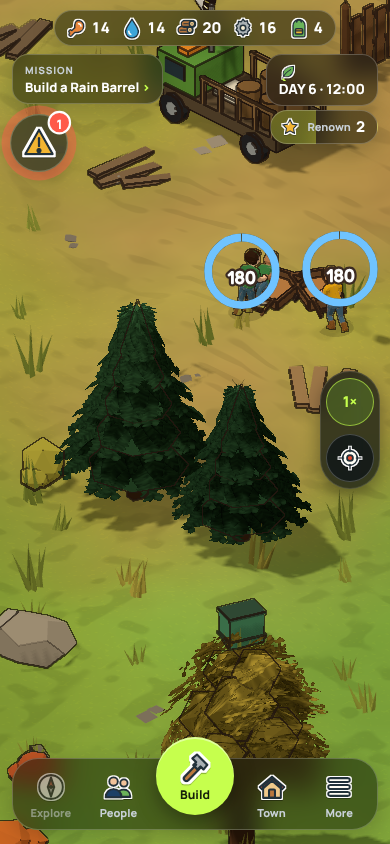
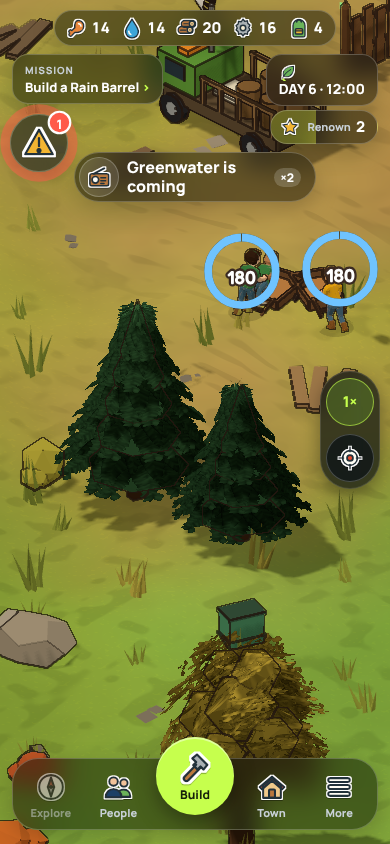
3D.308: the rescue truck's words (W129 part 3)
The radio call card, the notes, the banner, the arrival card, the departure note and the
favour card name Greenwater's truck, its horn and its medics. No numbers changed.
Check: tools/qa/truck_words_check.js plays one call from the card to the favour.

Claude-Session: https://claude.ai/code/session_017WFo2e1A76LqtvnWUw2GGA

diff --git a/js/game.js b/js/game.js
@@ -3,7 +3,7 @@
 'use strict';
 const Iso = window.ZHIso, Wd = window.ZHWorld;
 const SFX = (n) => { if (window.SND) SND.play(n); };   /* V2.21 sound (js/sound.js) */
-const VERSION = '2.57.0', BUILD_TAG = '3D.307', PREV_KEY = 'zombieHavenV25', OLD_KEY = 'zombieHavenV2';
+const VERSION = '2.57.0', BUILD_TAG = '3D.308', PREV_KEY = 'zombieHavenV25', OLD_KEY = 'zombieHavenV2';
 /* V2.40 save slots: slot 1 keeps the old key, so existing towns carry over */
 const SLOT_KEYS = ['zombieHavenR1', 'zombieHavenR1_s2', 'zombieHavenR1_s3']   /* V3D.22 resources: fresh saves (old towns are not converted) */, QS = new URLSearchParams(location.search);
 let SLOT = 1; try { SLOT = Math.min(3, Math.max(1, +localStorage.getItem('zhSlot') || 1)); } catch (e) { /* storage blocked */ }
@@ -1023,20 +1023,21 @@ function hitBuilding3(b, dmg, by) {
   if (b.hp <= 0) wreck(b, by);
 }
 /* 3D.48 Radio for help: the Camp's radio (a Radio Tower answers faster) calls a neighbouring group. Their team arrives in an
-   hour, clears the zombies in town and brings the fallen into care; two days later they ask for a favour. Once every 3 days
+   hour; since 3D.288 Greenwater's truck drives in, honks the zombies out after it down the highway and its two medics carry the fallen
+   into care (W129). Two days later Greenwater comes back for a favour. Once every 3 days
    (2 with a Radio Tower); refuse the favour and they won't answer again for a week. */
 const HELP_COST = { food: 15, water: 10 };
 function helpReady() { const h = S.help || {}; return !h.coming && !(h.owe) && (h.next || 0) <= S.day && !!campB(); }
 function lastStandNote() {
   if ((S.help || {}).offered === S.day + ':' + Math.floor(S.hour)) return; (S.help = S.help || {}).offered = S.day + ':' + Math.floor(S.hour);
   const downN = S.sv.filter((q) => q.mode === 'down').length; note('critical', '🫣 The last ones standing are hiding', { key: 'laststand', live: () => lastStand(), log: `${downN} down, too few left to fight. They hide until the zombies move on, then go for the fallen.` });
-  if (helpReady() && !modalOpen) showEventPopup({ title: '📻 CALL FOR HELP?', text: `${downN} of your people are down and the rest are hiding. A group on the radio says they can send a team in ${bOf('radio').length ? 'half an hour' : 'an hour'}. In two days they'll ask for a favour (${HELP_COST.food} food and ${HELP_COST.water} water).`,
+  if (helpReady() && !modalOpen) showEventPopup({ title: '📻 CALL FOR HELP?', text: `${downN} of your people are down and the rest are hiding. Greenwater is on the radio: "We can have the truck there in ${bOf('radio').length ? 'half an hour' : 'an hour'}. Two medics in the back, a horn on the roof that the dead can't resist. In two days we'll ask a favour: ${HELP_COST.food} food and ${HELP_COST.water} water."`,
     buttons: [{ label: '📻 Call them', fn: () => radioHelp() }, { label: 'We can manage', fn: () => {} }] });
 }
 function radioHelp() {
-  if (!helpReady()) { say((S.help || {}).owe ? 'You still owe them a favour.' : 'Nobody answers. Try again in a day or two.'); return false; }
+  if (!helpReady()) { say((S.help || {}).owe ? 'Greenwater says you still owe them a favour.' : 'Only static: Greenwater\'s truck is out. Try again in a day or two.'); return false; }
   const fast = bOf('radio').length > 0; S.help = { ...(S.help || {}), coming: tick + (fast ? 500 : 1000), next: S.day + (fast ? 2 : 3) };
-  note('critical', '📻 Help is on the way', { key: 'helpcoming', live: () => !!(S.help && S.help.coming), log: `A rescue team is coming (${fast ? 'about half an hour' : 'about an hour'}). Hold on.` }); banner('📻 HELP IS COMING'); saveGame(); return true;
+  note('critical', '📻 Greenwater\'s truck is on its way', { key: 'helpcoming', live: () => !!(S.help && S.help.coming), log: `Greenwater's truck is coming down the highway (${fast ? 'about half an hour' : 'about an hour'}), medics on board. Stay hidden until you hear the horn.` }); banner('📻 GREENWATER IS COMING'); saveGame(); return true;
 }
 /* 3D.246 (owner, 21 Nov, W172): a town is never lost. When every survivor in town is down (nobody left to carry anyone), the neighbours
    come by themselves, without being called, whatever is owed and even with the Camp wrecked (3D.251), at most once every AUTO_HELP_DAYS game days. They ask the same favour.
@@ -1093,13 +1094,13 @@ function truckTick() {
     else if (T.t < TRUCK.stop || busy || (T.medics && T.medics.some((m) => m.mode !== 'in'))) return;
     T.medics = null; T.leg = 'out'; T.path = P.slice().reverse(); T.i = 0; T.t = 0; truckLead(); return; }
   { const fs = S.z.filter((z) => z.truck && z.hp > 0), near = fs.length ? Math.min(...fs.map((z) => dist(z.w, at))) : 0; if (near > TRUCK.lead && T.t < TRUCK.wait) return; }   /* it leads: it waits for the nearest follower to catch up (at most TRUCK.wait ticks in all) */
-  T.i += TRUCK.outSpd; if (T.i >= P.length - 1) { S.truck = null; const left = S.z.filter((z) => z.truck && z.hp > 0).length; note('important', `🚚 The truck is gone down the highway${left ? `; ${left} zombie${left === 1 ? ' is' : 's are'} still shuffling after it` : ' and the town is quiet'}.`); }
+  T.i += TRUCK.outSpd; if (T.i >= P.length - 1) { S.truck = null; const left = S.z.filter((z) => z.truck && z.hp > 0).length; note('important', `🚚 Greenwater's truck is gone down the highway${left ? `; ${left} zombie${left === 1 ? ' is' : 's are'} still shuffling after it` : ' and the town is quiet'}.`); }
 }
 function helpTick() {
   { const h0 = S.help || {};
     if (!h0.coming && (h0.auto || 0) <= S.day && S.sv.some((q) => q.mode === 'down') && S.sv.every((q) => q.mode === 'down' || q.mode === 'hospital')) {
       S.help = { ...h0, coming: tick + 300, auto: S.day + AUTO_HELP_DAYS, self: true };
-      note('critical', '📻 Nobody is left standing: help is on the way', { key: 'helpcoming', live: () => !!(S.help && S.help.coming), log: 'The Haven went quiet on the radio. The neighbours are coming without being asked.' }); banner('📻 HELP IS COMING'); } }
+      note('critical', '📻 Nobody is left standing: Greenwater is coming', { key: 'helpcoming', live: () => !!(S.help && S.help.coming), log: 'The Haven went quiet on the radio, so Greenwater is sending the truck without being asked. Medics on board.' }); banner('📻 GREENWATER IS COMING'); } }
   const h = S.help; if (!h) return;
   if (h.coming && tick >= h.coming && !S.truck) { h.coming = 0; truckStart(); }
   if (h.arrived) { h.arrived = false; const led = S.truck ? truckFollowers().length : truckLead();   /* 3D.306: they follow when it drives off; until then the horn holds them round the truck */
@@ -1110,9 +1111,9 @@ function helpTick() {
     showEventPopup({ title: '🚚 GREENWATER\'S TRUCK ARRIVED', text: `${self ? 'Nobody answered the radio, so they came anyway. ' : ''}${led ? `Horn blaring, they are leading ${led} zombie${led === 1 ? '' : 's'} out of town down the highway` : 'The streets were clear'}, and their medics ${S.truck ? 'are carrying' : 'carried'} ${saved} of your people into care. "Two days from now, we'll come by for that favour."` });
   }
   if (h.owe && S.day >= h.owe.day && !modalOpen) { const o = h.owe; h.owe = null;
-    showEventPopup({ title: '📻 THEY CAME FOR THE FAVOUR', text: `The group that saved your people asks for ${o.food} food and ${o.water} water.`, buttons: [
-      { label: `Pay (${o.food} 🍖 ${o.water} 💧)`, disabled: !canPay({ food: o.food, water: o.water }), fn: () => { pay({ food: o.food, water: o.water }); renownGain(5, 'Kept your word'); result('🤝 SQUARED AWAY', 'They nod. "Call us if you need us."'); } },
-      { label: 'Refuse', fn: () => { h.next = S.day + 7; for (const q of S.sv) { q.sat = Math.max(0, (q.sat || 0) - 4); moodAdd(q, -4, 'refused the radio'); } result('📻 NO MORE FAVOURS', "They won't answer the radio for a week. Your people feel bad about it."); } }] }); }
+    showEventPopup({ title: '🚚 GREENWATER CAME FOR THE FAVOUR', text: `Greenwater's truck is back, horn off this time. The people who carried your fallen into care ask for ${o.food} food and ${o.water} water.`, buttons: [
+      { label: `Pay (${o.food} 🍖 ${o.water} 💧)`, disabled: !canPay({ food: o.food, water: o.water }), fn: () => { pay({ food: o.food, water: o.water }); renownGain(5, 'Kept your word'); result('🤝 SQUARED AWAY', 'They load the truck and nod. "Call us if you need us. We\'ll bring the horn."'); } },
+      { label: 'Refuse', fn: () => { h.next = S.day + 7; for (const q of S.sv) { q.sat = Math.max(0, (q.sat || 0) - 4); moodAdd(q, -4, 'refused the radio'); } result('📻 NO MORE FAVOURS', "Greenwater won't answer the radio for a week. Your people feel bad about it."); } }] }); }
 }
 function slipOut(q, b) {   /* out the back to the next shelter, away from the zombies; nowhere left = cornered */
   const zs = S.z.filter((z) => z.hp > 0 && !z.zoo); let best = null, bs = -1e9;

diff --git a/src/game/03-stats-gear.js b/src/game/03-stats-gear.js
@@ -356,20 +356,21 @@ function hitBuilding3(b, dmg, by) {
   if (b.hp <= 0) wreck(b, by);
 }
 /* 3D.48 Radio for help: the Camp's radio (a Radio Tower answers faster) calls a neighbouring group. Their team arrives in an
-   hour, clears the zombies in town and brings the fallen into care; two days later they ask for a favour. Once every 3 days
+   hour; since 3D.288 Greenwater's truck drives in, honks the zombies out after it down the highway and its two medics carry the fallen
+   into care (W129). Two days later Greenwater comes back for a favour. Once every 3 days
    (2 with a Radio Tower); refuse the favour and they won't answer again for a week. */
 const HELP_COST = { food: 15, water: 10 };
 function helpReady() { const h = S.help || {}; return !h.coming && !(h.owe) && (h.next || 0) <= S.day && !!campB(); }
 function lastStandNote() {
   if ((S.help || {}).offered === S.day + ':' + Math.floor(S.hour)) return; (S.help = S.help || {}).offered = S.day + ':' + Math.floor(S.hour);
   const downN = S.sv.filter((q) => q.mode === 'down').length; note('critical', '🫣 The last ones standing are hiding', { key: 'laststand', live: () => lastStand(), log: `${downN} down, too few left to fight. They hide until the zombies move on, then go for the fallen.` });
-  if (helpReady() && !modalOpen) showEventPopup({ title: '📻 CALL FOR HELP?', text: `${downN} of your people are down and the rest are hiding. A group on the radio says they can send a team in ${bOf('radio').length ? 'half an hour' : 'an hour'}. In two days they'll ask for a favour (${HELP_COST.food} food and ${HELP_COST.water} water).`,
+  if (helpReady() && !modalOpen) showEventPopup({ title: '📻 CALL FOR HELP?', text: `${downN} of your people are down and the rest are hiding. Greenwater is on the radio: "We can have the truck there in ${bOf('radio').length ? 'half an hour' : 'an hour'}. Two medics in the back, a horn on the roof that the dead can't resist. In two days we'll ask a favour: ${HELP_COST.food} food and ${HELP_COST.water} water."`,
     buttons: [{ label: '📻 Call them', fn: () => radioHelp() }, { label: 'We can manage', fn: () => {} }] });
 }
 function radioHelp() {
-  if (!helpReady()) { say((S.help || {}).owe ? 'You still owe them a favour.' : 'Nobody answers. Try again in a day or two.'); return false; }
+  if (!helpReady()) { say((S.help || {}).owe ? 'Greenwater says you still owe them a favour.' : 'Only static: Greenwater\'s truck is out. Try again in a day or two.'); return false; }
   const fast = bOf('radio').length > 0; S.help = { ...(S.help || {}), coming: tick + (fast ? 500 : 1000), next: S.day + (fast ? 2 : 3) };
-  note('critical', '📻 Help is on the way', { key: 'helpcoming', live: () => !!(S.help && S.help.coming), log: `A rescue team is coming (${fast ? 'about half an hour' : 'about an hour'}). Hold on.` }); banner('📻 HELP IS COMING'); saveGame(); return true;
+  note('critical', '📻 Greenwater\'s truck is on its way', { key: 'helpcoming', live: () => !!(S.help && S.help.coming), log: `Greenwater's truck is coming down the highway (${fast ? 'about half an hour' : 'about an hour'}), medics on board. Stay hidden until you hear the horn.` }); banner('📻 GREENWATER IS COMING'); saveGame(); return true;
 }
 /* 3D.246 (owner, 21 Nov, W172): a town is never lost. When every survivor in town is down (nobody left to carry anyone), the neighbours
    come by themselves, without being called, whatever is owed and even with the Camp wrecked (3D.251), at most once every AUTO_HELP_DAYS game days. They ask the same favour.
@@ -426,13 +427,13 @@ function truckTick() {
     else if (T.t < TRUCK.stop || busy || (T.medics && T.medics.some((m) => m.mode !== 'in'))) return;
     T.medics = null; T.leg = 'out'; T.path = P.slice().reverse(); T.i = 0; T.t = 0; truckLead(); return; }
   { const fs = S.z.filter((z) => z.truck && z.hp > 0), near = fs.length ? Math.min(...fs.map((z) => dist(z.w, at))) : 0; if (near > TRUCK.lead && T.t < TRUCK.wait) return; }   /* it leads: it waits for the nearest follower to catch up (at most TRUCK.wait ticks in all) */
-  T.i += TRUCK.outSpd; if (T.i >= P.length - 1) { S.truck = null; const left = S.z.filter((z) => z.truck && z.hp > 0).length; note('important', `🚚 The truck is gone down the highway${left ? `; ${left} zombie${left === 1 ? ' is' : 's are'} still shuffling after it` : ' and the town is quiet'}.`); }
+  T.i += TRUCK.outSpd; if (T.i >= P.length - 1) { S.truck = null; const left = S.z.filter((z) => z.truck && z.hp > 0).length; note('important', `🚚 Greenwater's truck is gone down the highway${left ? `; ${left} zombie${left === 1 ? ' is' : 's are'} still shuffling after it` : ' and the town is quiet'}.`); }
 }
 function helpTick() {
   { const h0 = S.help || {};
     if (!h0.coming && (h0.auto || 0) <= S.day && S.sv.some((q) => q.mode === 'down') && S.sv.every((q) => q.mode === 'down' || q.mode === 'hospital')) {
       S.help = { ...h0, coming: tick + 300, auto: S.day + AUTO_HELP_DAYS, self: true };
-      note('critical', '📻 Nobody is left standing: help is on the way', { key: 'helpcoming', live: () => !!(S.help && S.help.coming), log: 'The Haven went quiet on the radio. The neighbours are coming without being asked.' }); banner('📻 HELP IS COMING'); } }
+      note('critical', '📻 Nobody is left standing: Greenwater is coming', { key: 'helpcoming', live: () => !!(S.help && S.help.coming), log: 'The Haven went quiet on the radio, so Greenwater is sending the truck without being asked. Medics on board.' }); banner('📻 GREENWATER IS COMING'); } }
   const h = S.help; if (!h) return;
   if (h.coming && tick >= h.coming && !S.truck) { h.coming = 0; truckStart(); }
   if (h.arrived) { h.arrived = false; const led = S.truck ? truckFollowers().length : truckLead();   /* 3D.306: they follow when it drives off; until then the horn holds them round the truck */
@@ -443,9 +444,9 @@ function helpTick() {
     showEventPopup({ title: '🚚 GREENWATER\'S TRUCK ARRIVED', text: `${self ? 'Nobody answered the radio, so they came anyway. ' : ''}${led ? `Horn blaring, they are leading ${led} zombie${led === 1 ? '' : 's'} out of town down the highway` : 'The streets were clear'}, and their medics ${S.truck ? 'are carrying' : 'carried'} ${saved} of your people into care. "Two days from now, we'll come by for that favour."` });
   }
   if (h.owe && S.day >= h.owe.day && !modalOpen) { const o = h.owe; h.owe = null;
-    showEventPopup({ title: '📻 THEY CAME FOR THE FAVOUR', text: `The group that saved your people asks for ${o.food} food and ${o.water} water.`, buttons: [
-      { label: `Pay (${o.food} 🍖 ${o.water} 💧)`, disabled: !canPay({ food: o.food, water: o.water }), fn: () => { pay({ food: o.food, water: o.water }); renownGain(5, 'Kept your word'); result('🤝 SQUARED AWAY', 'They nod. "Call us if you need us."'); } },
-      { label: 'Refuse', fn: () => { h.next = S.day + 7; for (const q of S.sv) { q.sat = Math.max(0, (q.sat || 0) - 4); moodAdd(q, -4, 'refused the radio'); } result('📻 NO MORE FAVOURS', "They won't answer the radio for a week. Your people feel bad about it."); } }] }); }
+    showEventPopup({ title: '🚚 GREENWATER CAME FOR THE FAVOUR', text: `Greenwater's truck is back, horn off this time. The people who carried your fallen into care ask for ${o.food} food and ${o.water} water.`, buttons: [
+      { label: `Pay (${o.food} 🍖 ${o.water} 💧)`, disabled: !canPay({ food: o.food, water: o.water }), fn: () => { pay({ food: o.food, water: o.water }); renownGain(5, 'Kept your word'); result('🤝 SQUARED AWAY', 'They load the truck and nod. "Call us if you need us. We\'ll bring the horn."'); } },
+      { label: 'Refuse', fn: () => { h.next = S.day + 7; for (const q of S.sv) { q.sat = Math.max(0, (q.sat || 0) - 4); moodAdd(q, -4, 'refused the radio'); } result('📻 NO MORE FAVOURS', "Greenwater won't answer the radio for a week. Your people feel bad about it."); } }] }); }
 }
 function slipOut(q, b) {   /* out the back to the next shelter, away from the zombies; nowhere left = cornered */
   const zs = S.z.filter((z) => z.hp > 0 && !z.zoo); let best = null, bs = -1e9;

diff --git a/tools/qa/truck_words_check.js b/tools/qa/truck_words_check.js
@@ -1,0 +1,26 @@
+// tools/qa/truck_words_check.js — 3D.308 (W129 part 3): the radio call, the notes, the arrival card and the favour card speak of
+// Greenwater's truck, its horn and its medics, not the old faceless "rescue team". Plays one call for help from start to the favour.
+// Serve the repo first (python3 -m http.server 8765) or set ZH_NOSERVER=1. Exit 0 ok, 1 a check failed.
+const Q = require('./lib');
+(async () => { const b = await Q.launch(); const p = await Q.page(b, { expose: 'lastStandNote, radioHelp, helpReady' }); await Q.newGame(p); await Q.clearCards(p);
+  const r = await p.evaluate(() => { const S = ZH.S, camp = ZH.world.buildings[0], cards = [], modal = () => document.getElementById('eventModal');
+    const grab = (click) => { const m = modal(); if (m && m.innerText.trim()) { cards.push(m.innerText.replace(/\s+/g, ' ').trim()); const bs = [...m.querySelectorAll('button')]; const pick = bs.find((x) => click && x.innerText.includes(click)) || bs[0]; if (pick) pick.click(); } };
+    ZH.ARRIVE.low = ZH.ARRIVE.high = 1e9; S.z.length = 0; S.help = {}; S.food = 500; S.water = 500;
+    S.sv.forEach((q, i) => { if (i < 3) { q.hp = 0; q.mode = 'down'; q.w = { x: camp.x + 5 + i, y: camp.y + 5 }; } });
+    const ready = ZH.helpReady(); ZH.lastStandNote(); grab('Call them');   /* the call card, then press "Call them" */
+    for (let k = 0; k < 900 && !(S.help && S.help.owe); k++) { S.hour = 12; ZH.step(10); grab(); }
+    for (let k = 0; k < 900 && S.truck; k++) { S.hour = 12; ZH.step(10); grab(); }
+    if (S.help && S.help.owe) { S.help.owe.day = S.day; for (let k = 0; k < 40; k++) { ZH.step(60); grab('Pay'); } }
+    for (let k = 0; k < 10; k++) { ZH.step(10); grab(); }
+    return { ready, cards, log: (S.log || []).map((e) => e.t).filter((t) => /Greenwater|rescue|truck|radio|favour/i.test(t)) }; });
+  console.log(JSON.stringify(r, null, 1)); const bad = [], all = r.cards.join(' | ') + ' | ' + r.log.join(' | ');
+  const need = [['the call card names Greenwater, the truck and its medics', (t) => /Greenwater is on the radio.*truck.*medics/.test(t)],
+    ['the "on its way" note names the truck', (t) => /Greenwater's truck is coming down the highway/.test(t)],
+    ['the arrival card names the truck, the horn and the medics', (t) => /GREENWATER'S TRUCK ARRIVED.*medics/.test(t)],
+    ['the departure note names the truck', (t) => /Greenwater's truck is gone down the highway/.test(t)],
+    ['the favour card names Greenwater', (t) => /GREENWATER CAME FOR THE FAVOUR/.test(t)],
+    ['paying gives the squared-away card', (t) => /SQUARED AWAY/.test(t)]];
+  if (!r.ready) bad.push('the radio was not ready at the start');
+  for (const [what, ok] of need) if (!ok(all)) bad.push('missing: ' + what);
+  if (/rescue team|The group that saved/i.test(all)) bad.push('an old faceless "rescue team" text is still showing');
+  console.log(bad.length ? 'FAIL: ' + bad.join('; ') : 'ok: every card and note of the call names Greenwater, the truck and its medics'); if (p.errs.length) console.log('page errors:', p.errs.slice(0, 3)); await b.close(); process.exit(bad.length ? 1 : 0); })();

diff --git a/src/game/01-core.js b/src/game/01-core.js
@@ -3,7 +3,7 @@
 'use strict';
 const Iso = window.ZHIso, Wd = window.ZHWorld;
 const SFX = (n) => { if (window.SND) SND.play(n); };   /* V2.21 sound (js/sound.js) */
-const VERSION = '2.57.0', BUILD_TAG = '3D.307', PREV_KEY = 'zombieHavenV25', OLD_KEY = 'zombieHavenV2';
+const VERSION = '2.57.0', BUILD_TAG = '3D.308', PREV_KEY = 'zombieHavenV25', OLD_KEY = 'zombieHavenV2';
 /* V2.40 save slots: slot 1 keeps the old key, so existing towns carry over */
 const SLOT_KEYS = ['zombieHavenR1', 'zombieHavenR1_s2', 'zombieHavenR1_s3']   /* V3D.22 resources: fresh saves (old towns are not converted) */, QS = new URLSearchParams(location.search);
 let SLOT = 1; try { SLOT = Math.min(3, Math.max(1, +localStorage.getItem('zhSlot') || 1)); } catch (e) { /* storage blocked */ }

diff --git a/docs/project/17-FEATURES.md b/docs/project/17-FEATURES.md
@@ -2,14 +2,14 @@
 
 The Features chat builds what the other chats decided, one change per build, each with a scripted check. Order: `15-REVIEW.md`, section 6. This page says what is built, how it is checked and what is next.
 
-**Numbers taken by this chat:** builds **3D.284 to 3D.288** and **3D.306** (3D.289 to 3D.301, 3D.303 and 3D.305 are the Balance chat's, 3D.302 and 3D.304 the Strongholds chat's; this build was first pushed as a second 3D.303 in the same minute as the Balance chat's, then renumbered past the builds the other chats pushed meanwhile); waiting items **W226**, **W227** (both done), **W228** (done), **W229** (first written as W224 and W225, numbers the Story chat had already taken).
+**Numbers taken by this chat:** builds **3D.284 to 3D.288**, **3D.306** and **3D.308** (3D.289 to 3D.301, 3D.303 and 3D.305 are the Balance chat's, 3D.302 and 3D.304 the Strongholds chat's; this build was first pushed as a second 3D.303 in the same minute as the Balance chat's, then renumbered past the builds the other chats pushed meanwhile); waiting items **W226**, **W227** (both done), **W228** (done), **W229** (first written as W224 and W225, numbers the Story chat had already taken).
 
 ## 1. Where things stand
 
 | Job | Decided | State |
 |---|---|---|
 | Healing (W130) | 20 Nov, `02-DECISIONS.md`, "Nights and survival" | **Built: 3D.284 to 3D.287. Pushed 22 Nov. Owner, 22 Nov: "yes the tent worked" (W227)** |
-| The radio rescue truck (W129) | 19 Nov; look C (W228, 22 Nov) | **Builds 1 and 2 of 3 done: 3D.288** (the truck leads the zombies out), **3D.306** (the medics carry the fallen in). Next: the words |
+| The radio rescue truck (W129) | 19 Nov; look C (W228, 22 Nov) | **Built: 3D.288** (the truck leads the zombies out), **3D.306** (the medics carry the fallen in), **3D.308** (the words). Waiting on the owner's look (W229) |
 | The daytime threat | 16 Nov, `01-VISION.md` | After the truck |
 | Take command | 16 Nov | After the daytime threat |
 
@@ -70,10 +70,11 @@ Decision: when called, a Greenwater truck drives in with its horn and alarm goin
 |---|---|---|
 | **3D.288** | **The truck leads them out.** When the rescue comes (called, or by itself when nobody is standing), the fallen stop bleeding at once and Greenwater's truck drives in off the highway's east end with its horn and alarm going (one "HONK HONK" over it at a time); zombies in town turn toward the noise. It parks two tiles short of the Camp's door, and the fallen go into care (as before, for now). After about 15 game minutes it drives back out the way it came and every zombie in and near town follows it, walking down the highway and off the map, ignoring people on the way (they are not killed: before, they were removed on the spot). The truck crawls ahead of the nearest follower, at most 3.5 tiles ahead. If no road leads in, the team comes on foot as before. The card says what happened ("they are leading N zombies out of town down the highway") | `truck_check.js` (and `never_lost_check.js`, updated). A picture of it in the game: `runs/features/truck_in_game.png` |
 | **3D.306** | **The medics carry the fallen in.** When the truck parks, two Greenwater medics (Rosa and Abe, in Medic clothes) get out. Each walks to the nearest person who is down and nobody else is fetching, loads them onto a stretcher cart, and wheels them to the medical building (or the Camp if there is none), then fetches the next. People ride the cart as they do when a survivor carries them. The truck waits until nobody is left down and both medics are back on board; meanwhile its horn holds the zombies round it (in 3D.288 they set off the moment it parked; with the longer stop they would have been far ahead of it). Then it leaves and they follow. If the carrying takes longer than 6,000 ticks (6 game hours), whoever is still down is taken in at once. Survivors still standing can carry people in too; a medic never takes someone a survivor is already carrying. The card says "their medics are carrying N of your people into care". Found while building: a save made while a medic was carrying someone failed (the medic and the person pointed at each other); a medic is now saved without those links and finds the person again after loading. Also found: the town's rescue planner let go of anyone whose rescuer was not one of our survivors, so the person on a stretcher dropped off the cart now and then; a medic is now exempt | `truck_check.js` (both medics, every fallen person carried, the truck leaves only after), `truck_save_check.js` (a save mid-carry loads and finishes), `never_lost_check.js` (waits for the medics). Picture: `runs/features/truck_medics.png` |
+| **3D.308** | **The words.** Every card and note of a call now speaks of Greenwater's truck: the call card is Greenwater on the radio ("We can have the truck there in an hour. Two medics in the back, a horn on the roof that the dead can't resist." and the favour), the note while it comes says to stay hidden until you hear the horn, the banner reads GREENWATER IS COMING (also when they come by themselves), the arrival card says how many zombies the horn is leading out and how many people the medics are carrying in, the departure note names the truck, and the favour card is Greenwater's truck back with the horn off. No numbers changed. | `truck_words_check.js`: plays one call from the card to the favour and reads every card and note: Greenwater, the truck and the medics are named, and no faceless "rescue team" text is left. Also ran `truck_check`, `truck_save_check`, `never_lost_check` and the suite: all pass |
 
 Numbers (`TRUCK` and `MEDIC` in `src/game/03-stats-gear.js`; medics walk at 0.045 tiles a tick, a little slower with the cart; at most 6,000 ticks parked): drives in at 0.05 tiles a tick (about 800 ticks, some 50 game minutes, from the highway's end to a level 1 Camp; the fallen do not bleed meanwhile), parks 240 ticks (about 15 game minutes), out at 0.022 tiles a tick, waits for the nearest follower beyond 3.5 tiles. In the check, Walkers reached the map's edge about 6 game hours after it parked; a legless Crawler took about twice that (they ignore people all the way).
 
-Next: **(3)** the radio words and the card (one build). Then the daytime threat and Take command.
+The rescue truck is built (all three parts). Next: the daytime threat, then Take command.
 
 A check to harden: `medic_shift_check.js` (3D.287) sometimes fails to catch the Medic walking out to a round, the moment its "turn back" step needs (1 run in 6 on the medics build, after the overnight builds made newcomers come sooner); the game's behaviour is not at fault, the step only reports that it could not set itself up.
 

diff --git a/docs/project/02-DECISIONS.md b/docs/project/02-DECISIONS.md
@@ -173,7 +173,7 @@ Full story, cutscene list and storyboards: `09-STORY.md`.
 ## Nights and survival
 - 15 Nov: Civilians form a militia when every fighter is down.
 - 15 Nov: Walkers grow more slowly after day 10, "but not too slow".
-- 19 Nov (Planning chat): The radio rescue no longer kills zombies out of sight. A Greenwater truck drives in with its horn and alarm going and leads the zombies out of town down the highway (like the car-alarm lure); their medics carry the fallen into care; the favour they ask for stays. **22 Nov (W228): the truck is look C**, Greenwater's farm stake truck with barrels of the Old Brine and a horn on a pole. **Built so far: 3D.288** (Features chat): the truck drives in, parks by the Camp and leads every zombie in town out down the highway and off the map; none are killed out of sight. **3D.306:** two Greenwater medics get out and wheel the fallen into care on stretcher carts; the truck leaves when they are done. Still to build: the words.
+- 19 Nov (Planning chat): The radio rescue no longer kills zombies out of sight. A Greenwater truck drives in with its horn and alarm going and leads the zombies out of town down the highway (like the car-alarm lure); their medics carry the fallen into care; the favour they ask for stays. **22 Nov (W228): the truck is look C**, Greenwater's farm stake truck with barrels of the Old Brine and a horn on a pole. **Built so far: 3D.288** (Features chat): the truck drives in, parks by the Camp and leads every zombie in town out down the highway and off the map; none are killed out of sight. **3D.306:** two Greenwater medics get out and wheel the fallen into care on stretcher carts; the truck leaves when they are done. **3D.308:** the radio call, the notes and the cards name Greenwater's truck, its horn and its medics. All three parts built.
 - 19 Nov (Bugs chat, bug A12): **Zombies never walk away.** Every zombie stays until killed, day or night: no dawn retreat (this replaces 3D.219, where the whole night horde left at 06:00, and the older half-leaves rule); a boss still alive at dawn stays with its followers; a killed boss's mob fights on (no more new zombies that night); no daylight boredom exit; and no quiet removal of the daytime surplus (V2.18). The owner chose this knowing it makes days harder (leftover zombies fight in town all day). **Rebalance first:** the change is built on branch `a12-never-leave` (as 3D.233; that number was taken the same day on `art-direction-b` by the UI chat's slip-out fix, live, so this build takes the next free number when it is merged) and is not published until the Balance chat has measured it with its bot and tuned the nights; then both are published together. This overrides the vision's "no constant daytime attacks on the town" for zombies left over from the night (W146).
 - 22 Nov (Balance chat, A12 measured): with A12 alone, weaker bot towns collapsed (a level 14 town lost 26 people in 10 game days against 2; a new town 8 against 0): up to 60 zombies stayed all day after a boss night, nobody healed, and the next night came on top. **Tuning chosen by the owner ("Daylight + clear streets"):** zombies still never walk away, but in daylight (06:00 to 20:00) they move at half speed and hit half as hard (raiders unchanged), and a boss night waits a day while more than half the limit of zombies (15, 22 or 30 by era) still stands, at most twice in a row. The Balance chat added two more in the same spirit: the **dawn sweep** (by day, fighters at 70% health or more go after leftovers anywhere in town and 6 tiles past its edge) and **the boss night also waits while the town is badly hurt** (people standing under 60% health on average). Result: new towns 0, 0 and 0 deaths (0 without A12), a level 17 town 2 (5), level 14 towns 7 (4) and 20 (5): in the last one the boss's horde of 118 was not finished by dawn, the boss stayed all next day with the town at a third of its health, and people who were down bled out by day. **Owner, 22 Nov: "Wait for healing."** A12 stays off the game until healing (W130, built by the Features chat as 3D.284 to 3D.287 the same day) and the rescue truck that leads zombies out of town (W129, next in the Features chat) are in; then the Balance chat measures again with both. The five builds are kept on branch `a12-tuned` (3D.296 to 3D.300 there, renumbered when merged); they are not on `balance-overnight`. *(Features chat, 22 Nov: healing is pushed as 3D.284 to 3D.287; the truck's first build, which leads the zombies out, is 3D.288; its medics carry the fallen in in 3D.306; only its words are still to come.)*
 - 20 Nov (Planning chat): **Healing: the medical building first, rounds fill the gaps.** When no zombie is in town, anyone under 80% health walks to the medical building in free time or between jobs, if there is one with room (full healing; only a medical building treats a field wound). A medic's round is for those who can't go (on a shift or a post, the building full, no medical building): it patches to 75% (was 60%) and uses 1 cloth or a little medicine. A medic on shift stays at the building while someone is in it or walking to it, and does rounds when it is empty; with two or more medics, one always stays. Everyone mends a little each hour with no zombie about. The 60% / 50% bars for leaving work stay during danger. **Built 22 Nov (Features chat): 3D.284** the slow mend (2% of health each game hour with no zombie in town), **3D.285** the tent first (under 80%, stay until full; with a zombie in town only those under 60% set out, Claude's reading of "when no zombie is in town"), **3D.286** rounds to 75% for those who cannot go (a field wound still stops at 60%; a worker on shift indoors is patched at the door), **3D.287** the Medic on shift (also: a Medic walking to a round turns back when a patient sets out for the building). Pushed to `art-direction-b` 22 Nov, not published. First bot runs in `17-FEATURES.md`; the full balance check is the Balance chat's. (The Balance chat's A12 tuning above was measured without healing: with it, people do heal by day.)

diff --git a/docs/project/00-START-HERE.md b/docs/project/00-START-HERE.md
@@ -23,13 +23,13 @@ The same pages are kept in the repo under `docs/project/`, so they can be copied
 | `13-LONG-GAME.md` | The plan for months of play: five rules (one pace for everyone, levels made of deeds, danger by level, something to buy with every stock, loops at the top), the end game with the cure, room for later systems, and **the balance routine** to run whenever the game changes | live (approved by the owner, 21 Nov; nothing built yet) |
 | `14-ZOMBIE-MOVES.md` | A signature move for every kind of zombie in place of the shared one-arm swipe, and a draft backstory for each, tied to the story | live, 21 Nov (Art chat): the moves approved (W190), built one zombie per build (the Dog's and the Stag's gallop: 3D.256; the Bloater Queen: 3D.257; the Bloated: 3D.267; the Walker: 3D.276); the backstories are settled in the Story chat (`09-STORY.md`, 10.2, W192) |
 | `15-REVIEW.md` | The big review of 22 Nov: what is strong, the game against nine similar games, logic issues, fun factor, what to improve in order, and a brief for the Strongholds chat | report, 22 Nov (Planning chat); the order waits on W211 |
-| `17-FEATURES.md` | The Features chat's page: what it has built (healing, 3D.284 to 3D.287; the rescue truck, 3D.288 and 3D.306), how each build is checked, the first balance runs, what is next | live, 22 Nov (Features chat); pushed, not published |
+| `17-FEATURES.md` | The Features chat's page: what it has built (healing, 3D.284 to 3D.287; the rescue truck, 3D.288, 3D.306 and 3D.308), how each build is checked, the first balance runs, what is next | live, 22 Nov (Features chat); pushed, not published |
 | `15-STRONGHOLDS.md` | Strongholds and raid maps: how they played, the kit every map is built from, each place's shape, house rule, goal and size by level, the checks, what is not done, the Art chat's list | approved and built 22 Nov (Strongholds chat): 3D.277, 3D.278 (live), 3D.280 to 3D.283 (pushed); waiting on W222, W223 |
 
 The older docs under `claude/` are an archive in the **Game Development** project (they are not in the repo). Their decisions are already merged into `02-DECISIONS.md`; open the archive only for detail such as exact numbers of an old build.
 
 ## Where things are
-- Repo `sfwong629-droid/Zombie-haven`, branch **art-direction-b** (never push to main). Build **3D.306** (pushed, not published: 3D.280 to 3D.283, 3D.302 and 3D.304 from the Strongholds chat, 3D.284 to 3D.288 and 3D.306 from the Features chat, 3D.289 to 3D.301 the Balance chat's overnight builds, merged 22 Nov, and its 3D.303 and 3D.305, rule 1's last two steps). The Features chat's open item is W229 (W227: the owner saw healing work); the next free W number is W240.
+- Repo `sfwong629-droid/Zombie-haven`, branch **art-direction-b** (never push to main). Build **3D.308** (pushed, not published: 3D.280 to 3D.283, 3D.302 and 3D.304 from the Strongholds chat, 3D.284 to 3D.288, 3D.306 and 3D.308 from the Features chat, 3D.289 to 3D.301 the Balance chat's overnight builds, merged 22 Nov, and its 3D.303 and 3D.305, rule 1's last two steps; 3D.307 the Clinic in one visit). The Features chat's open item is W229 (W227: the owner saw healing work); the next free W number is W243.
 - Live game: https://claude.ai/artifact/PidbC3srwbxmFqhfPkqJmn (version 300 = 3D.279, page cache tag v=3d.297). Never republish the direction-A artifact F8sGocbQgVJxj4ed2fLdzu.
 - Game code: `js/game.js` is kept as 27 area files in `src/game/` (guide: `src/game/README.md`). Edit the area file, run `python3 tools/build/game.py` to join them into `js/game.js`, and commit both. If you edited `js/game.js` directly, run `python3 tools/build/game.py --split` instead. The test suite fails (`parts`) when the two differ. `js/game.js` is still the file that is published.
 - Publishing: full slug `b7f9181b-346a-4ccb-85be-5f1f659593f9`; take the *published* index.html, bump v=3d.N, publish only changed js/css. Never use the repo's index.html. Another chat may have published since: always read the live version first.

diff --git a/docs/project/05-NOW.md b/docs/project/05-NOW.md
@@ -281,7 +281,7 @@ Features chat (started 22 Nov; page `17-FEATURES.md`):
 - ~~W226. Push access.~~ The first try was refused; owner, 22 Nov: "try to push again". Granted on the second try; healing (3D.284 to 3D.287) is pushed to `art-direction-b`, not published. (First written as W224 in the Features chat; the Story chat had taken W224 and W225.)
 - ~~W227. Healing.~~ Owner, 22 Nov, 23:27: "yes the tent worked" (hurt people walk to the Medical Tent and come out healed). Still for the Balance chat from the first bot runs (`17-FEATURES.md`, section 4): cloth ran out in the towns with healing, and too few towns were run to judge the danger targets: run the full check.
 - ~~W228. The rescue truck's look (W129).~~ Owner, 22 Nov: "c", the farm truck with the Old Brine barrels. Built into 3D.288 (the truck leads the zombies out; `17-FEATURES.md`, section 5).
-- W229. **The rescue truck, once published:** let everyone go down (or call the radio) and watch Greenwater's truck come in off the highway, park by the Camp, two medics wheel the fallen into care on stretcher carts, and it leads the zombies out down the highway. Right?
+- W229. **The rescue truck, once published** (all three parts built: 3D.288, 3D.306, 3D.308 the words)**:** let everyone go down (or call the radio), read Greenwater's call card, and watch Greenwater's truck come in off the highway, park by the Camp, two medics wheel the fallen into care on stretcher carts, and it leads the zombies out down the highway. Right?
 
 Strongholds chat (started 22 Nov; page `15-STRONGHOLDS.md`):
 - ~~W218 to W221. The plan, the bosses, maps without a boss, the order.~~ Owner, 22 Nov (asked in the chat as W211 to W214, numbers the other chats also took that night): plan approved as is; use the real boss models; some maps have no boss; the kit and the Clinic first; camps and strongholds both grow with the level; Claude builds the maps, rooms and props; push, don't publish. **Built overnight:** 3D.277 the kit and the Overrun Clinic; 3D.278 Blackgate Prison; 3D.280 the six raid camps by level, each with its house rule; 3D.281 the four seasonal strongholds; 3D.282 Helix Lab 7, the Records Office, the Dusk Radio Mast; 3D.283 Shut the Line (the Gate, the Line, the Tanks). (3D.279 is the UI chat's.) 3D.277 and 3D.278 went live with the UI chat's publish (version 300).
